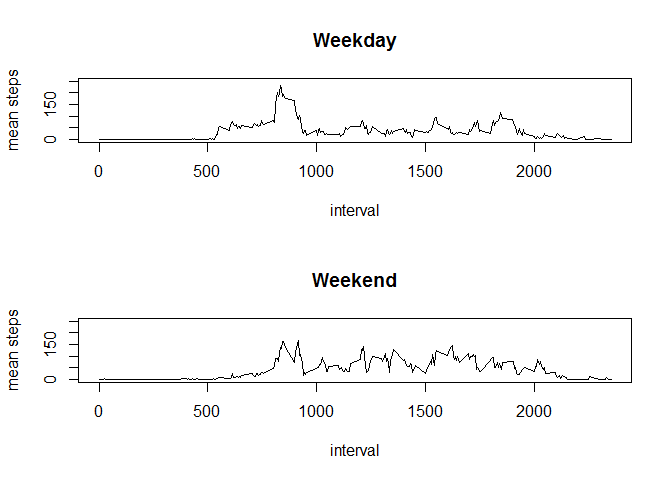
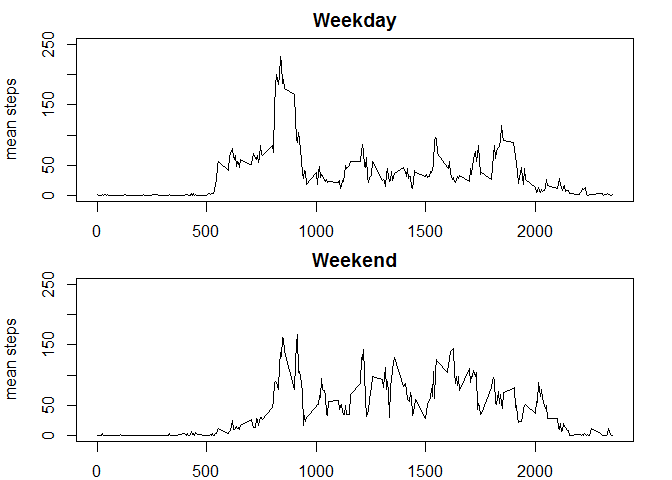
Commit for peer review - with improved weekday/weekend plots

diff --git a/PA1_template.html b/PA1_template.html
@@ -204,10 +204,10 @@ names(intmeanWdWE)[names(intmeanWdWE)==&quot;x&quot;] &lt;- &quot;intervalmean&q
 weekday_ints&lt;-intmeanWdWE[intmeanWdWE$WdayWend==&quot;weekday&quot;,]
 weekend_ints&lt;-intmeanWdWE[intmeanWdWE$WdayWend==&quot;weekend&quot;,]
 # set up the plot frame and execute the plots.
-par(mfrow = c(2, 1))
+par(mfrow = c(2, 1),mar=c(2,4,2,2))
 plot(weekday_ints$interval,weekday_ints$intervalmean,type=&quot;l&quot;,main=&quot;Weekday&quot;,xlab=&quot;interval&quot;,ylab=&quot;mean steps&quot;,ylim=c(0,250))
 plot(weekend_ints$interval,weekend_ints$intervalmean,type=&quot;l&quot;,main=&quot;Weekend&quot;,xlab=&quot;interval&quot;,ylab=&quot;mean steps&quot;,ylim=c(0,250))</code></pre>
[2 lines of base64/hex data omitted]
 <p>To answer the question for this section, yes there does appear to be a difference between the weekday and weekend steps. The weekday activity starts earlier in the morning (about 5:00 AM) with a peak between 8:00 AM and 9:00 AM. The weekend activity starts later in the day and is spread more evenly throughout the day.</p>
 
 

diff --git a/PA1_template.md b/PA1_template.md
@@ -224,7 +224,7 @@ names(intmeanWdWE)[names(intmeanWdWE)=="x"] <- "intervalmean"
 weekday_ints<-intmeanWdWE[intmeanWdWE$WdayWend=="weekday",]
 weekend_ints<-intmeanWdWE[intmeanWdWE$WdayWend=="weekend",]
 # set up the plot frame and execute the plots.
-par(mfrow = c(2, 1))
+par(mfrow = c(2, 1),mar=c(2,4,2,2))
 plot(weekday_ints$interval,weekday_ints$intervalmean,type="l",main="Weekday",xlab="interval",ylab="mean steps",ylim=c(0,250))
 plot(weekend_ints$interval,weekend_ints$intervalmean,type="l",main="Weekend",xlab="interval",ylab="mean steps",ylim=c(0,250))
 ```
